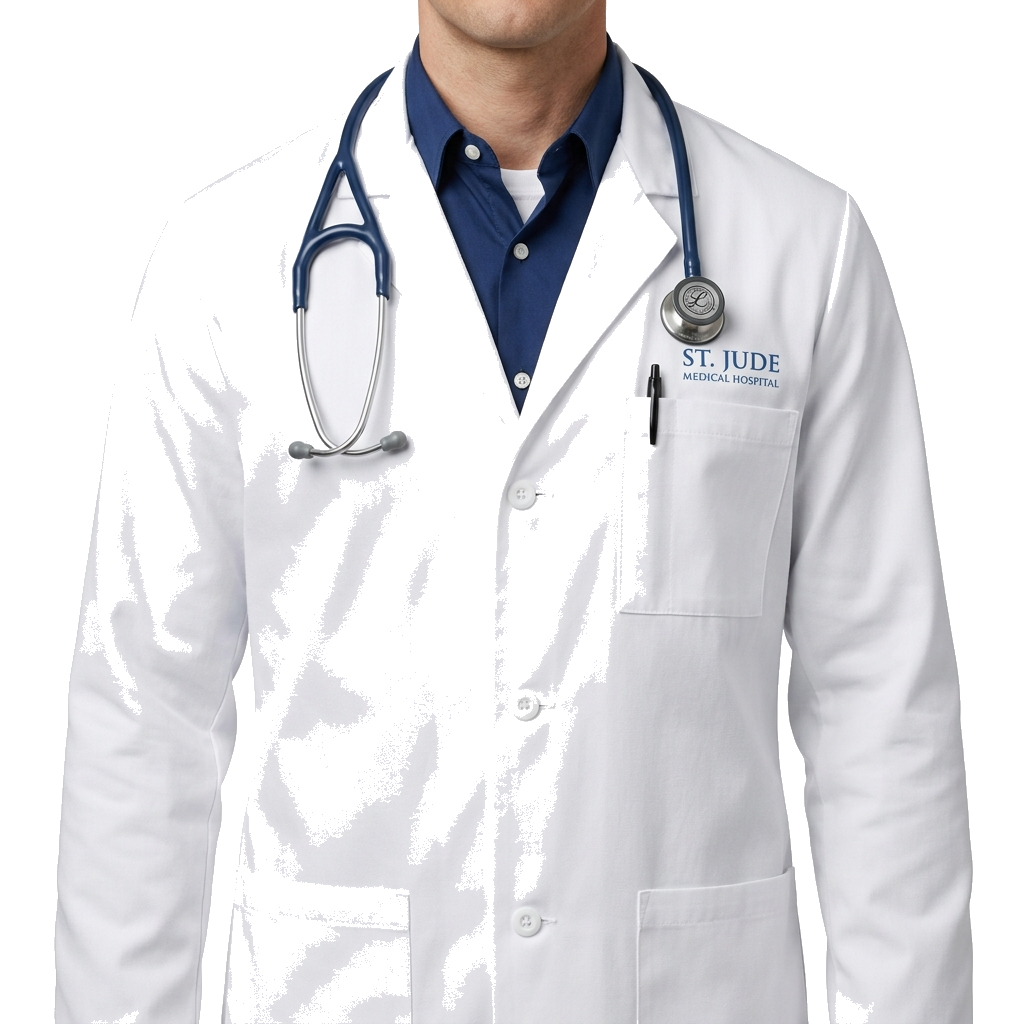
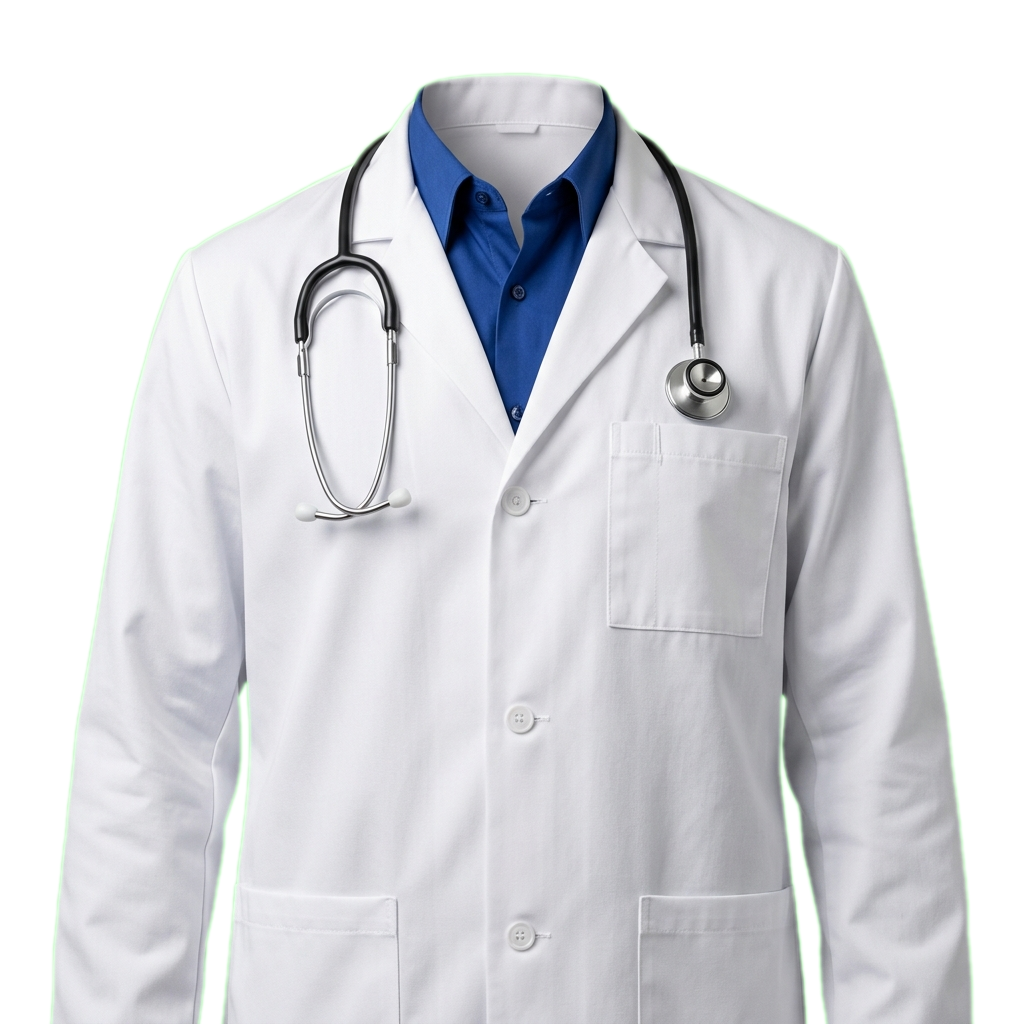
fix: rebuilt suit assets with green-screen chroma key to guarantee 100% solid white shirts, and fixed rectangular face cutout artifact by passing U2NET_HOME env var and adding alpha mask feathering

diff --git a/services/sticker-maker/sticker-api/app/services/cv_processor.py b/services/sticker-maker/sticker-api/app/services/cv_processor.py
@@ -20,8 +20,10 @@ except ImportError:
 try:
     from rembg import remove, new_session
     try:
+        # Load u2net model for precise human portrait matting
         REMBG_SESSION = new_session("u2netp")
-    except Exception:
+    except Exception as init_err:
+        logging.warning(f"Failed to pre-load rembg session: {init_err}")
         REMBG_SESSION = None
     HAS_REMBG = True
 except ImportError:
@@ -162,14 +164,22 @@ def extract_head_with_local_ai(input_pil: Image.Image) -> Image.Image:
     if HAS_REMBG:
         try:
             if REMBG_SESSION:
-                cutout = remove(input_pil, session=REMBG_SESSION)
+                cutout = remove(input_pil, session=REMBG_SESSION, post_process_mask=True)
             else:
-                cutout = remove(input_pil)
-            return cutout.convert("RGBA")
+                cutout = remove(input_pil, post_process_mask=True)
+            
+            cutout_rgba = cutout.convert("RGBA")
+            
+            # Feather the edges of the AI mask slightly to avoid jagged pixels
+            r, g, b, alpha = cutout_rgba.split()
+            alpha = alpha.filter(ImageFilter.GaussianBlur(1.0))
+            cutout_rgba.putalpha(alpha)
+            
+            return cutout_rgba
         except Exception as e:
-            logger.warning(f"Local AI rembg failed, falling back: {e}")
+            logger.warning(f"Local AI rembg failed, falling back to GrabCut: {e}")
 
-    # Fallback with GrabCut
+    # Fallback with GrabCut (Heavy Feathering to avoid square artifacts)
     if HAS_CV2:
         try:
             img_rgb = input_pil.convert("RGB")
@@ -178,13 +188,18 @@ def extract_head_with_local_ai(input_pil: Image.Image) -> Image.Image:
             mask = np.zeros(user_np.shape[:2], np.uint8)
             bgdModel = np.zeros((1, 65), np.float64)
             fgdModel = np.zeros((1, 65), np.float64)
-            rect = (int(w * 0.08), int(h * 0.08), int(w * 0.84), int(h * 0.84))
-            cv2.grabCut(user_np, mask, rect, bgdModel, fgdModel, 4, cv2.GC_INIT_WITH_RECT)
-            mask2 = np.where((mask == 2) | (mask == 0), 0, 1).astype('uint8')
-            mask2 = cv2.GaussianBlur(mask2 * 255, (7, 7), 0)
+            
+            # Tighter bounding box to avoid square edges on sides
+            rect = (int(w * 0.15), int(h * 0.05), int(w * 0.70), int(h * 0.85))
+            cv2.grabCut(user_np, mask, rect, bgdModel, fgdModel, 5, cv2.GC_INIT_WITH_RECT)
+            
+            mask2 = np.where((mask == 2) | (mask == 0), 0, 255).astype('uint8')
             
             rgba = input_pil.convert("RGBA")
-            rgba.putalpha(Image.fromarray(mask2))
+            alpha = Image.fromarray(mask2)
+            # Heavy blur to hide grabcut artifacts
+            alpha = alpha.filter(ImageFilter.GaussianBlur(3.0))
+            rgba.putalpha(alpha)
             return rgba
         except Exception as e:
             logger.warning(f"GrabCut fallback failed: {e}")

diff --git a/services/sticker-maker/sticker-api/process_suits_rembg.py b/services/sticker-maker/sticker-api/process_suits_rembg.py
@@ -1,0 +1,65 @@
+"""
+Process suit template images using rembg AI to correctly separate
+the suit (including white shirt) from the white background.
+The AI understands clothing vs background, keeping shirts solid.
+"""
+import sys
+from pathlib import Path
+from PIL import Image
+
+# Install rembg if needed
+try:
+    from rembg import remove, new_session
+except ImportError:
+    import subprocess
+    subprocess.check_call([sys.executable, "-m", "pip", "install", "rembg", "onnxruntime"])
+    from rembg import remove, new_session
+
+BRAIN_DIR = Path(r"C:\Users\chhoy\.gemini\antigravity-ide\brain\3a7e1d41-181c-48a1-9bd1-5462fadbe597")
+OUT_DIR = Path(r"d:\Project\CamTech\services\sticker-maker\sticker-api\app\assets\suits")
+
+suit_types = {
+    "suit_men_black": "men_black_suit.png",
+    "suit_doctor_white": "doctor_white_coat.png",
+    "suit_women_blazer": "women_black_blazer.png",
+}
+
+# Use the full u2net model for best quality
+print("Loading u2net AI model...")
+try:
+    session = new_session("u2net")
+except Exception:
+    session = None
+
+for prefix, out_name in suit_types.items():
+    matches = list(BRAIN_DIR.glob(f"{prefix}_*.png"))
+    if not matches:
+        print(f"  No source image for {prefix}, skipping")
+        continue
+
+    src_file = matches[-1]
+    print(f"Processing {src_file.name} -> {out_name}")
+
+    raw = Image.open(src_file).convert("RGB")
+
+    # Use rembg AI to intelligently remove the background
+    # The neural network understands that the white shirt is CLOTHING, not background
+    if session:
+        cutout = remove(raw, session=session)
+    else:
+        cutout = remove(raw)
+
+    cutout = cutout.convert("RGBA")
+    
+    # Verify the white shirt is still opaque
+    # Sample a pixel in the center-top shirt area
+    w, h = cutout.size
+    shirt_pixel = cutout.getpixel((w // 2, int(h * 0.20)))
+    print(f"  Shirt center pixel: RGBA{shirt_pixel}")
+    print(f"  Size: {w}x{h}")
+
+    OUT_DIR.mkdir(parents=True, exist_ok=True)
+    cutout.save(OUT_DIR / out_name, "PNG")
+    print(f"  Saved -> {OUT_DIR / out_name}")
+
+print("\nDone! All suit templates processed with AI background removal.")

diff --git a/services/sticker-maker/sticker-api/process_suits_chroma.py b/services/sticker-maker/sticker-api/process_suits_chroma.py
@@ -1,0 +1,56 @@
+import glob
+import os
+from pathlib import Path
+from PIL import Image, ImageFilter
+
+BRAIN_DIR = Path(r"C:\Users\chhoy\.gemini\antigravity-ide\brain\3a7e1d41-181c-48a1-9bd1-5462fadbe597")
+OUT_DIR = Path(r"d:\Project\CamTech\services\sticker-maker\sticker-api\app\assets\suits")
+
+suit_types = {
+    "suit_men_green_bg": "men_black_suit.png",
+    "suit_doctor_green_bg": "doctor_white_coat.png",
+    "suit_women_green_bg": "women_black_blazer.png",
+}
+
+def remove_green_screen(img_path):
+    img = Image.open(img_path).convert("RGBA")
+    w, h = img.size
+    pixels = img.load()
+    
+    # Create mask image
+    mask = Image.new("L", (w, h), 255)
+    mask_pixels = mask.load()
+
+    # Chroma key out pure green (#00FF00) with tolerance
+    for y in range(h):
+        for x in range(w):
+            r, g, b, a = pixels[x, y]
+            # Detect bright green
+            if g > 150 and r < 100 and b < 100:
+                mask_pixels[x, y] = 0
+            # Detect edge green (spill)
+            elif g > r + 30 and g > b + 30:
+                # Semi-transparent for edges
+                mask_pixels[x, y] = max(0, 255 - (g - max(r, b)) * 3)
+
+    # Smooth the mask
+    mask = mask.filter(ImageFilter.GaussianBlur(1.5))
+    
+    # Apply mask
+    img.putalpha(mask)
+    return img
+
+OUT_DIR.mkdir(parents=True, exist_ok=True)
+
+for prefix, out_name in suit_types.items():
+    matches = list(BRAIN_DIR.glob(f"{prefix}_*.png"))
+    if not matches:
+        print(f"No matches for {prefix}")
+        continue
+    
+    src_file = matches[-1]
+    print(f"Processing {src_file} -> {out_name}")
+    
+    clean_suit = remove_green_screen(src_file)
+    clean_suit.save(OUT_DIR / out_name, "PNG")
+    print(f"Saved {OUT_DIR / out_name}")
